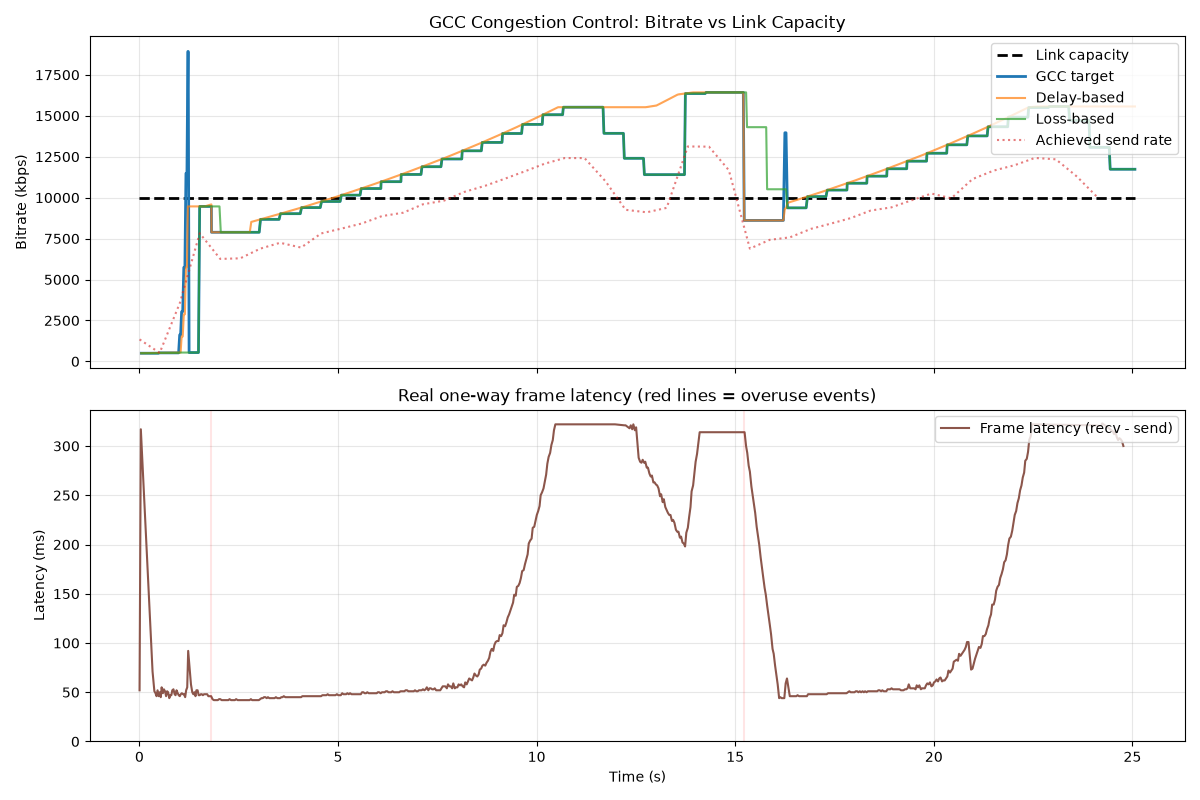
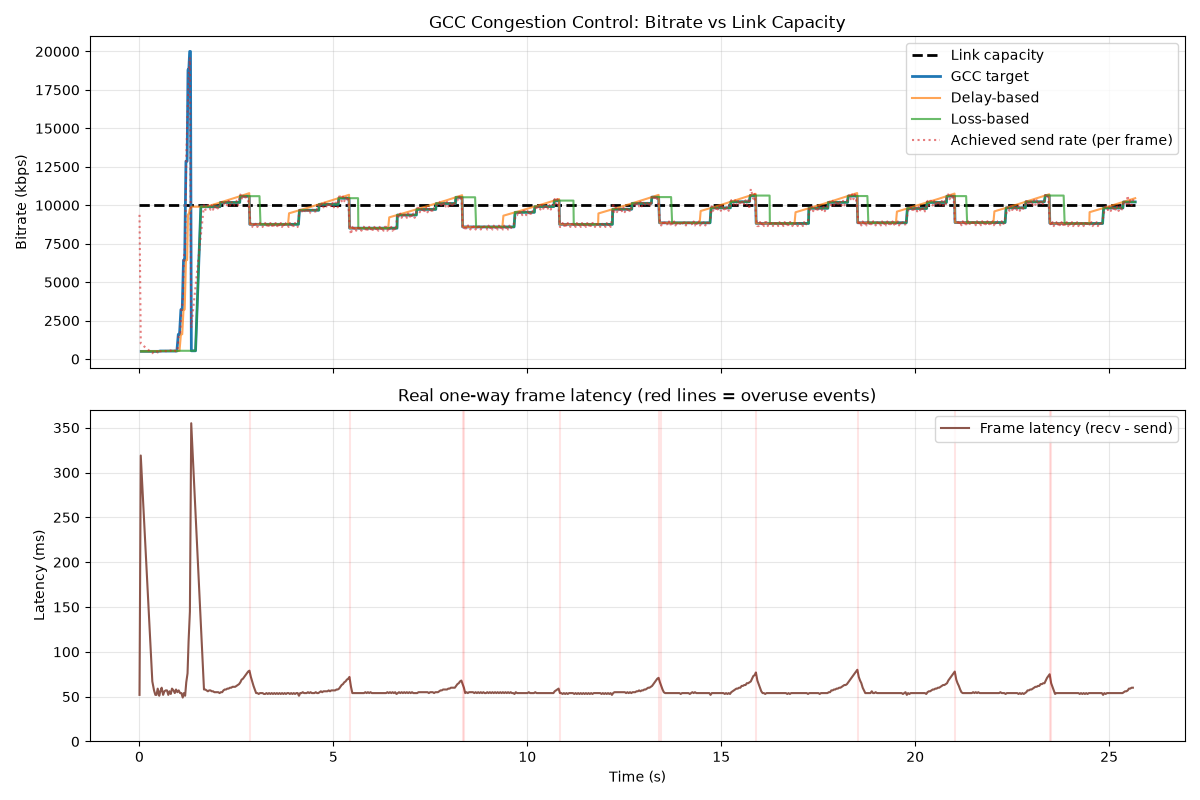
Mock encoder targets full bitrate; plot achieved rate per frame
Remove the 0.8 BANDWIDTH_UTILIZATION factor so the mock encoder sizes frames
to the full allocated target, like a real encoder. Replace the 0.5s binned
achieved-send-rate in plot_gcc.py with a per-frame rate (frame bytes / interval
to next frame). Achieved send rate now tracks the GCC target within ~0.2%
(was ~20% low). Regenerate scenario figures.

diff --git a/scripts/plot_gcc.py b/scripts/plot_gcc.py
@@ -144,21 +144,22 @@ def main():
         cap_t.append(t_end)
         cap_v.append(cap_v[-1])
 
-    # Achieved send bitrate: sliding window over frames (kbps)
-    # group sends into ~0.5s bins
+    # Achieved send bitrate, per frame: treat the mock encoder like a real one
+    # and translate each frame's encoded size into an instantaneous bitrate.
+    # rate = frame_bytes * 8 / frame_interval, where the interval is the time to
+    # the next frame's send (last frame reuses the previous interval).
     achieved_t, achieved_v = [], []
-    if sends:
-        bin_s = 0.5
-        bin_start = sends[0]["ts"]
-        acc_bytes = 0
-        for s in sends:
-            if s["ts"] - bin_start >= bin_s:
-                kbps = acc_bytes * 8 / 1000.0 / (s["ts"] - bin_start)
-                achieved_t.append(bin_start - t0)
-                achieved_v.append(kbps)
-                bin_start = s["ts"]
-                acc_bytes = 0
-            acc_bytes += s["bytes"]
+    if len(sends) >= 2:
+        for i, s in enumerate(sends):
+            if i + 1 < len(sends):
+                dt = sends[i + 1]["ts"] - s["ts"]
+            else:
+                dt = s["ts"] - sends[i - 1]["ts"]
+            if dt <= 0:
+                continue
+            kbps = s["bytes"] * 8 / 1000.0 / dt
+            achieved_t.append(s["ts"] - t0)
+            achieved_v.append(kbps)
 
     # Write CSV for reference
     csv_path = result_dir / "gcc_state.csv"
@@ -198,7 +199,7 @@ def main():
         ax1.plot(gt, [r["loss_based"] for r in gcc_rows], label="Loss-based",
                  color="C2", alpha=0.7)
     if achieved_t:
-        ax1.plot(achieved_t, achieved_v, label="Achieved send rate",
+        ax1.plot(achieved_t, achieved_v, label="Achieved send rate (per frame)",
                  color="C3", alpha=0.6, linestyle=":")
     ax1.set_ylabel("Bitrate (kbps)")
     ax1.set_title("GCC Congestion Control: Bitrate vs Link Capacity")

diff --git a/codec/mock_codec/mock_encoder.cc b/codec/mock_codec/mock_encoder.cc
@@ -4,8 +4,6 @@
 
 #include "log_system/log_system.h"
 
-static const double BANDWIDTH_UTILIZATION = 0.8;
-
 MockEncoder::MockEncoder()
     : output_stream_(nullptr),
       initialized_(false),
@@ -53,8 +51,9 @@ void MockEncoder::SetTargetBitrate(int bitrate_kbps) {
   }
 
   target_bitrate_kbps_ = bitrate_kbps;
-  double bitrate = bitrate_kbps * BANDWIDTH_UTILIZATION;
-  bytes_per_frame_ = static_cast<size_t>(bitrate) * 1000 / (8 * fps_);
+  // A real encoder targets the full allocated bitrate; size frames to match it
+  // exactly (no headroom factor).
+  bytes_per_frame_ = static_cast<size_t>(target_bitrate_kbps_) * 1000 / (8 * fps_);
   if (bytes_per_frame_ == 0) bytes_per_frame_ = 1;
 
   LOG(INFO) << "[Encoder] Set target bitrate to " << bitrate_kbps << " kbps"

diff --git a/docs/cc_architecture.md b/docs/cc_architecture.md
@@ -421,7 +421,7 @@ raising the rate to test for headroom.
 | **GCC target** | `[GCC_STATE] target=` | The controller's final decision — what the encoder/pacer is told to use. This is `ComputeFinalBitrate()`. |
 | **Delay-based** | `[GCC_STATE] delay_based=` | The AIMD delay estimate alone (§3). |
 | **Loss-based** | `[GCC_STATE] loss_based=` | The loss estimate alone (§4). Sits on top of delay-based when loss is low. |
-| **Achieved send rate** | `[DataSender] Sending frame` bytes, binned ~0.5 s | The rate actually put on the wire. Compared against *GCC target* it shows how well the encoder tracked the command, and against *link capacity* it shows utilization. |
+| **Achieved send rate** | `[DataSender] Sending frame` bytes, per frame | The rate actually put on the wire: each frame's encoded size ÷ the interval to the next frame. Compared against *GCC target* it shows how well the encoder tracked the command, and against *link capacity* it shows utilization. The mock encoder targets the full allocation (no headroom factor), so this tracks the target closely. |
 
 A healthy run has GCC target tracking just under link capacity and achieved send
 rate hugging the target. Target above capacity with rising latency = overshoot
